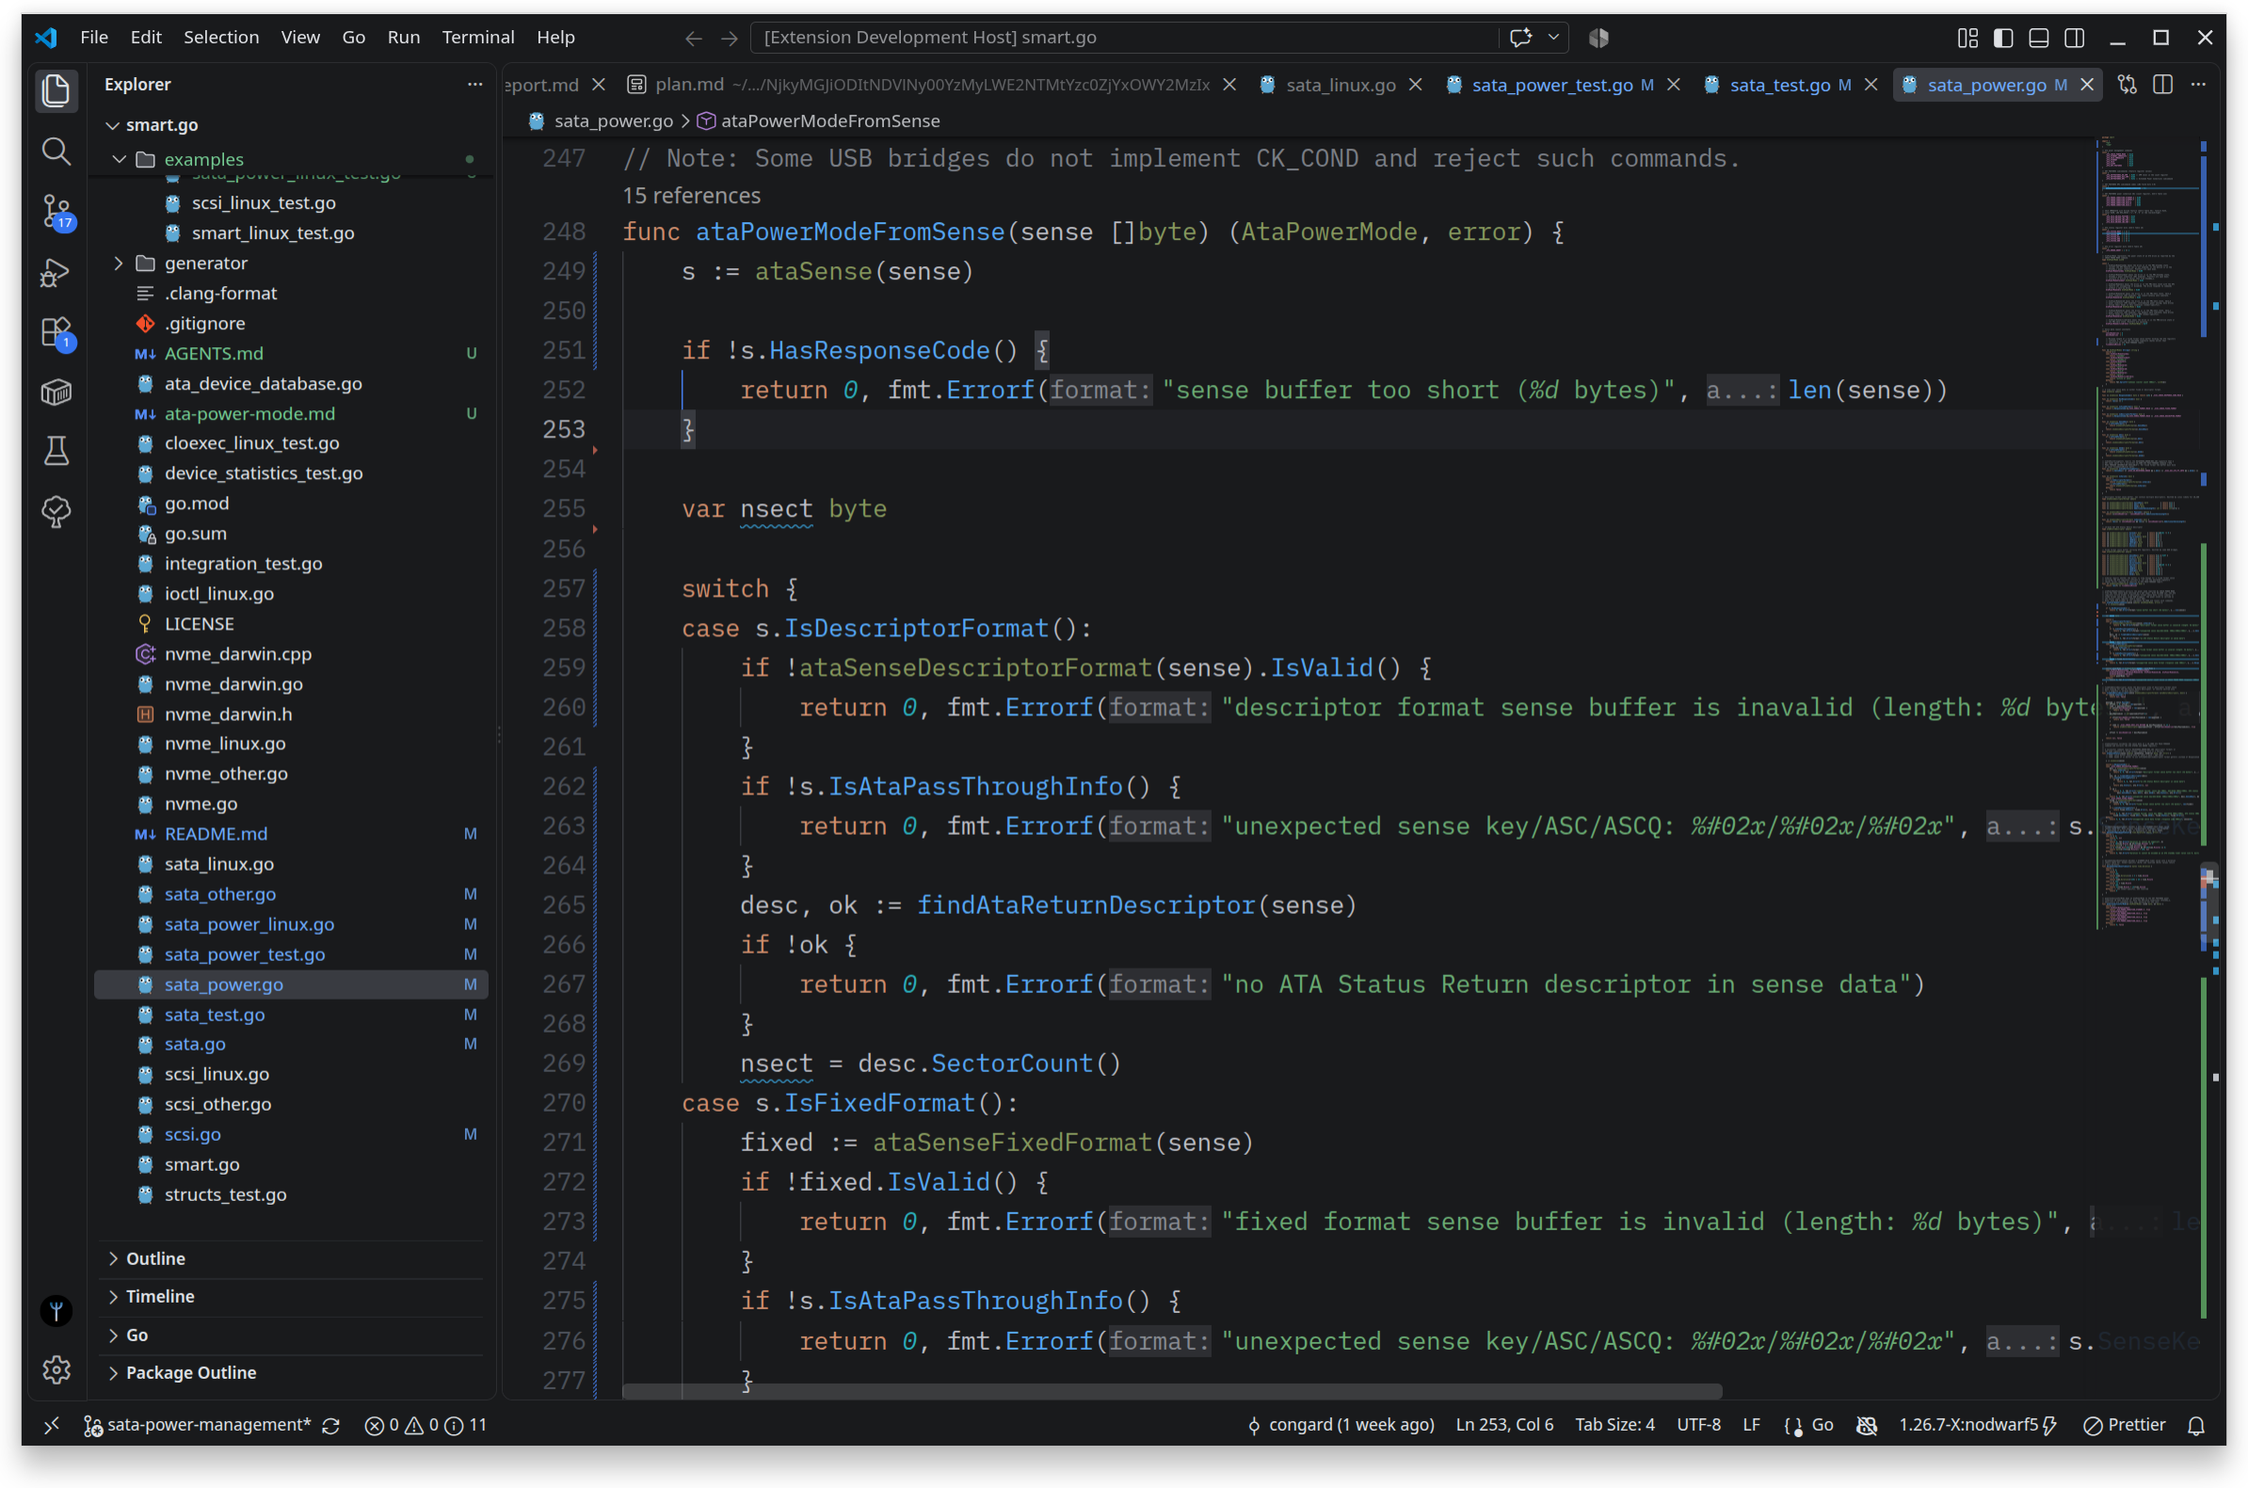
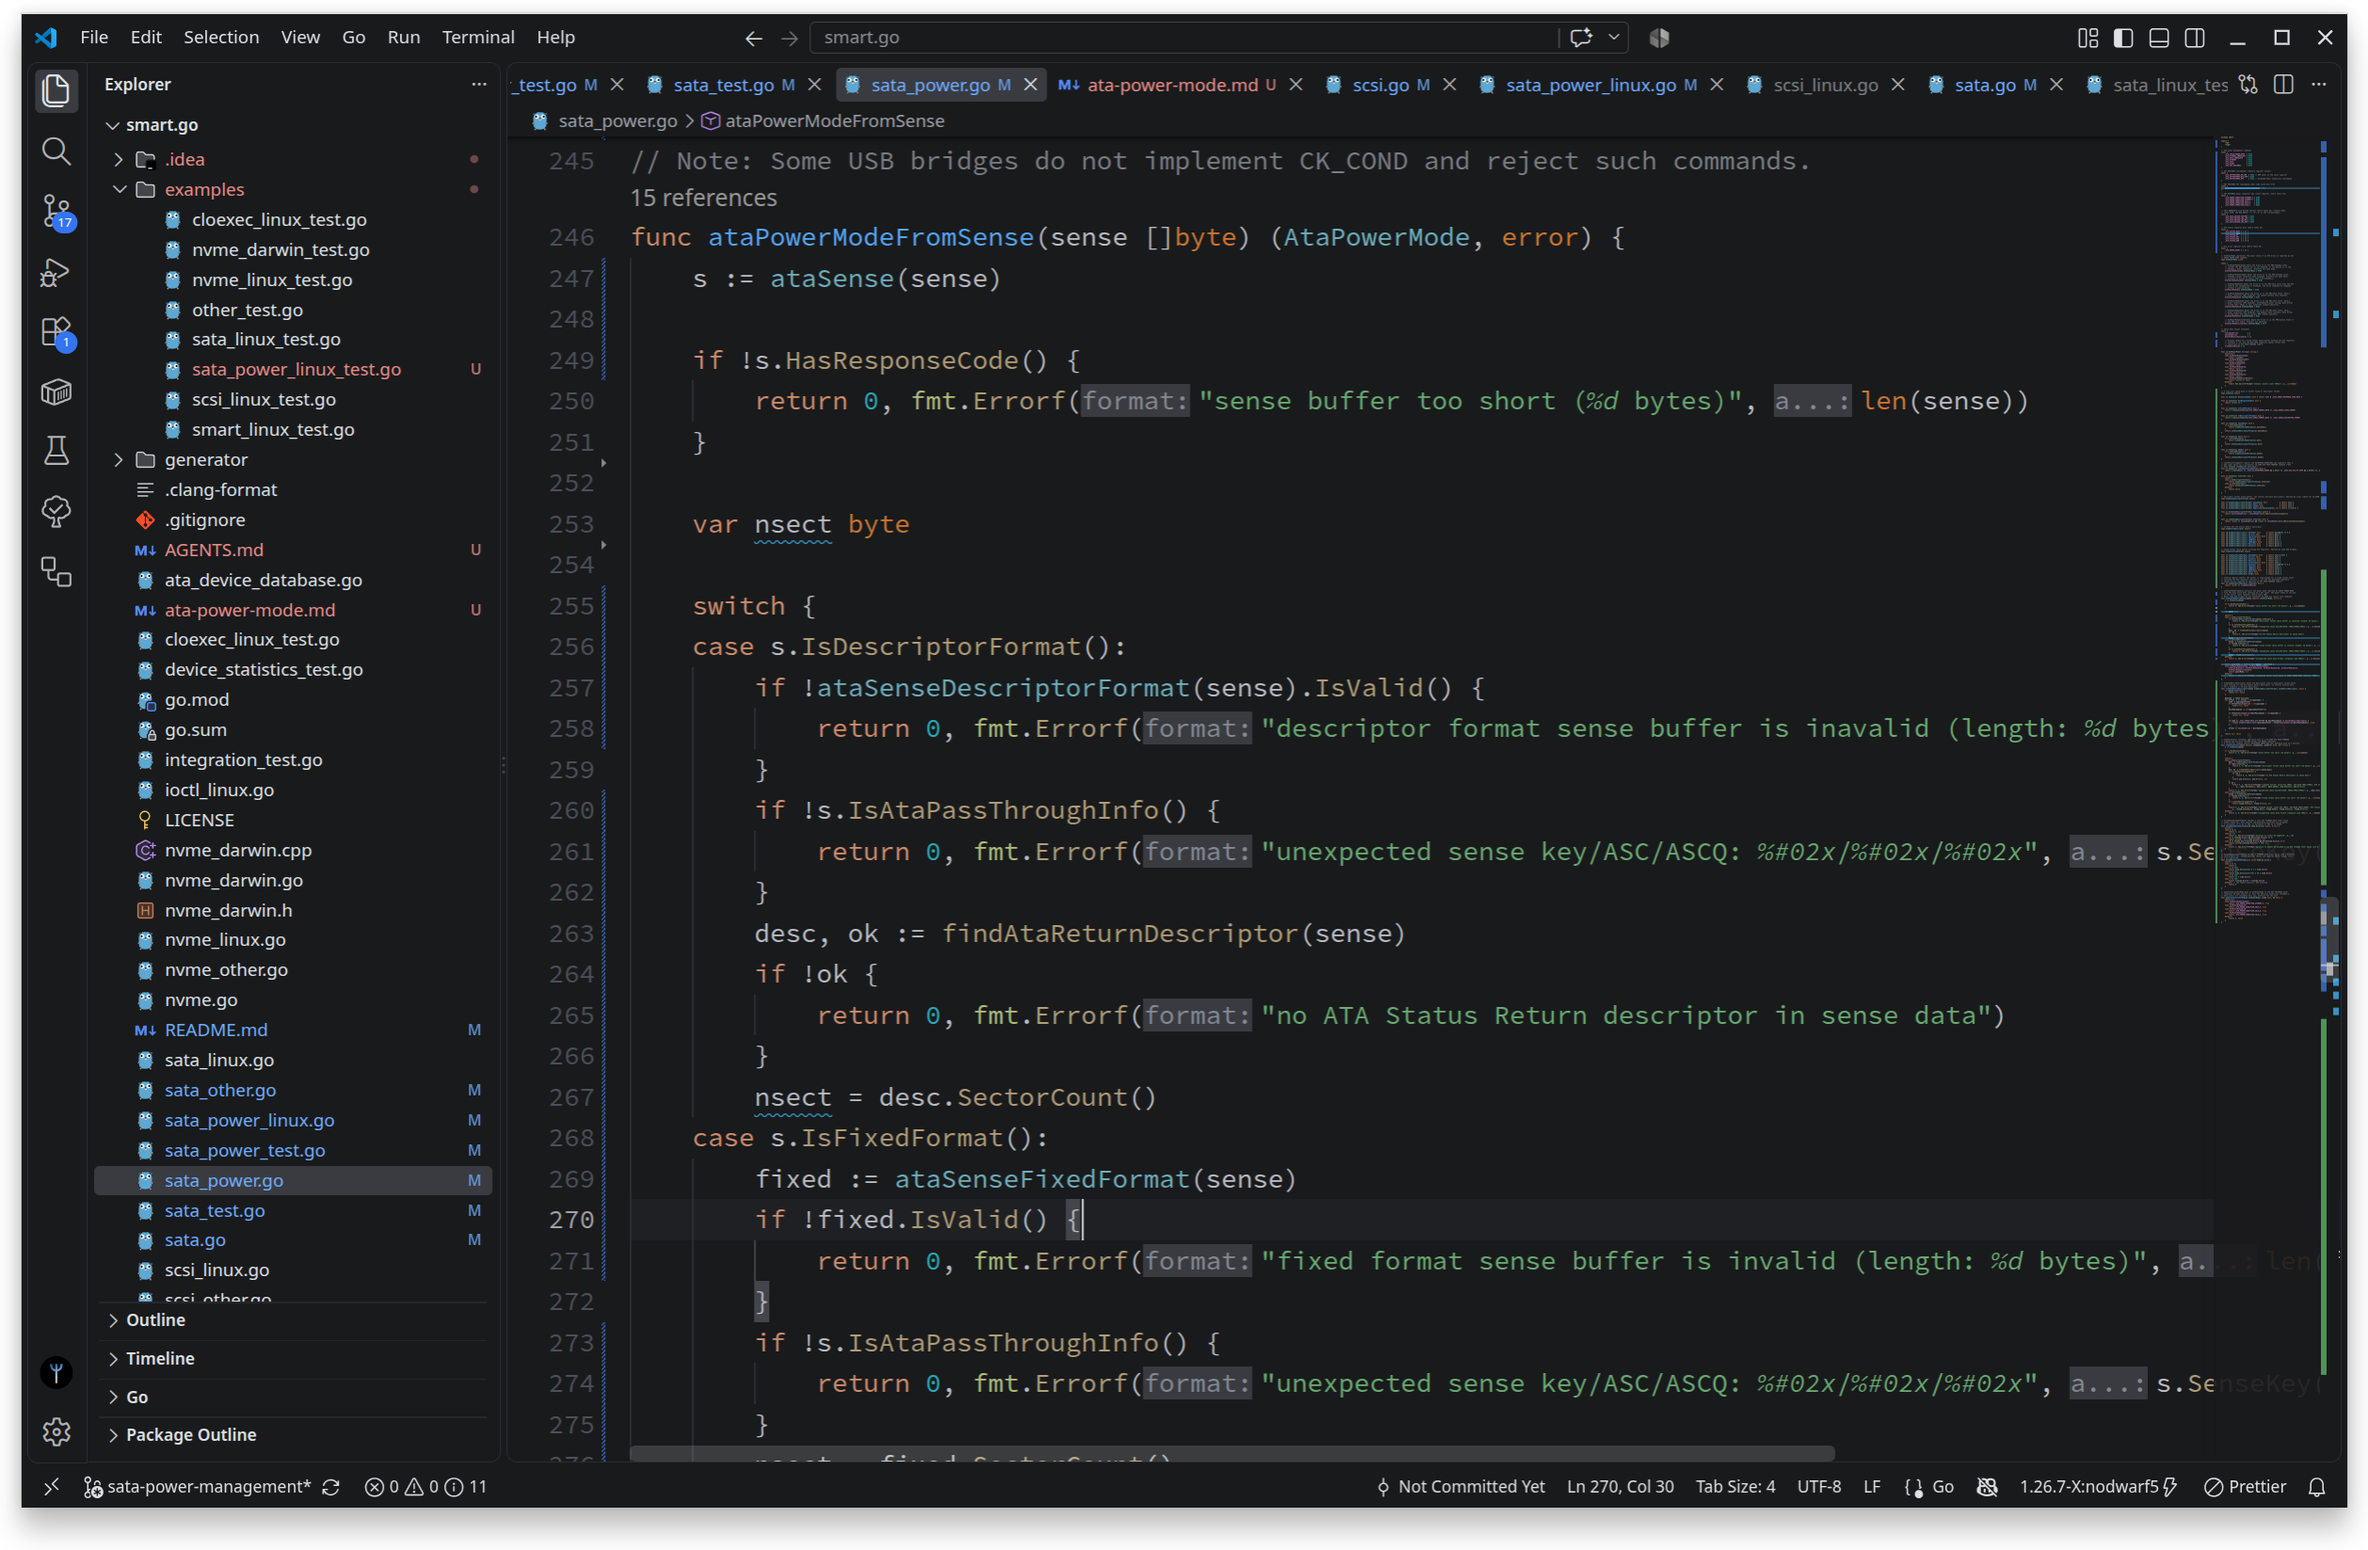
Update README.md and screenshot

diff --git a/README.md b/README.md
@@ -2,12 +2,15 @@
 
 [![Version](https://badgen.net/vs-marketplace/v/congard.vsc-islands-theme)](https://marketplace.visualstudio.com/items?itemName=congard.vsc-islands-theme)
 
-JetBrains-inspired Visual Studio Code theme. My goal is not to map the JetBrains theme 1-to-1, but rather create a comfortable theme with familiar colors.
+JetBrains-inspired Visual Studio Code theme.
 
 The Islands theme is based on [zed-theme-jetbrains](https://github.com/artemevsevev/zed-theme-jetbrains.git).
 
 > [!NOTE]
 > Go support is the first priority; other languages will be added in the future.
+
+> [!NOTE]
+> In Go, a method receiver parameter emits the same token as a regular function parameter. So it's impossible to distinguish them for now.
 
 ![Go](images/vsc-golang.png)
 
@@ -38,5 +41,5 @@ npm run package
 ### Install locally
 
 ```bash
-code --install-extension ./islands-theme-0.0.1.vsix
+code --install-extension ./islands-theme-X.Y.Z.vsix
 ```
